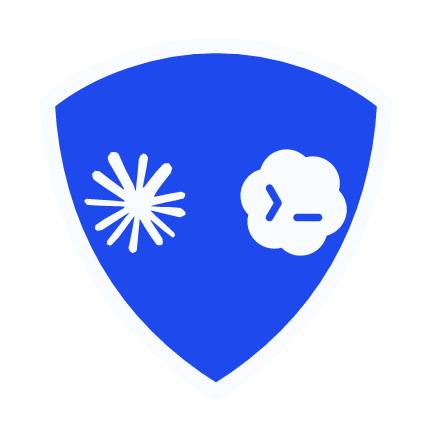
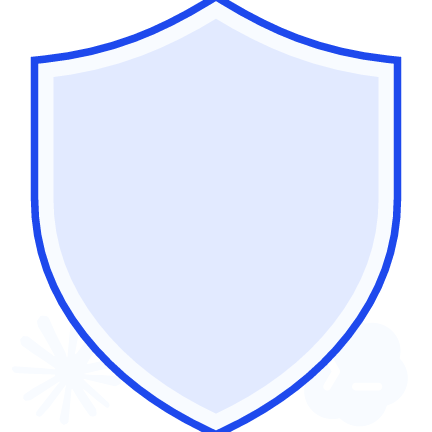
style: emphasize the classic CC保镖 shield silhouette [skip ci]

diff --git a/test/tool/generate_app_icon_test.dart b/test/tool/generate_app_icon_test.dart
@@ -77,7 +77,7 @@ Future<void> main() async {
       expect(source, isNot(contains('linearGradient')));
       expect(
         RegExp(r'#[0-9a-fA-F]{6}').allMatches(source).map((m) => m.group(0)),
-        everyElement(isIn(['#1E49ED', '#F8FBFF'])),
+        everyElement(isIn(['#1E49ED', '#F8FBFF', '#E2EAFF'])),
       );
     }
     final layeredImage = jsonDecode(
